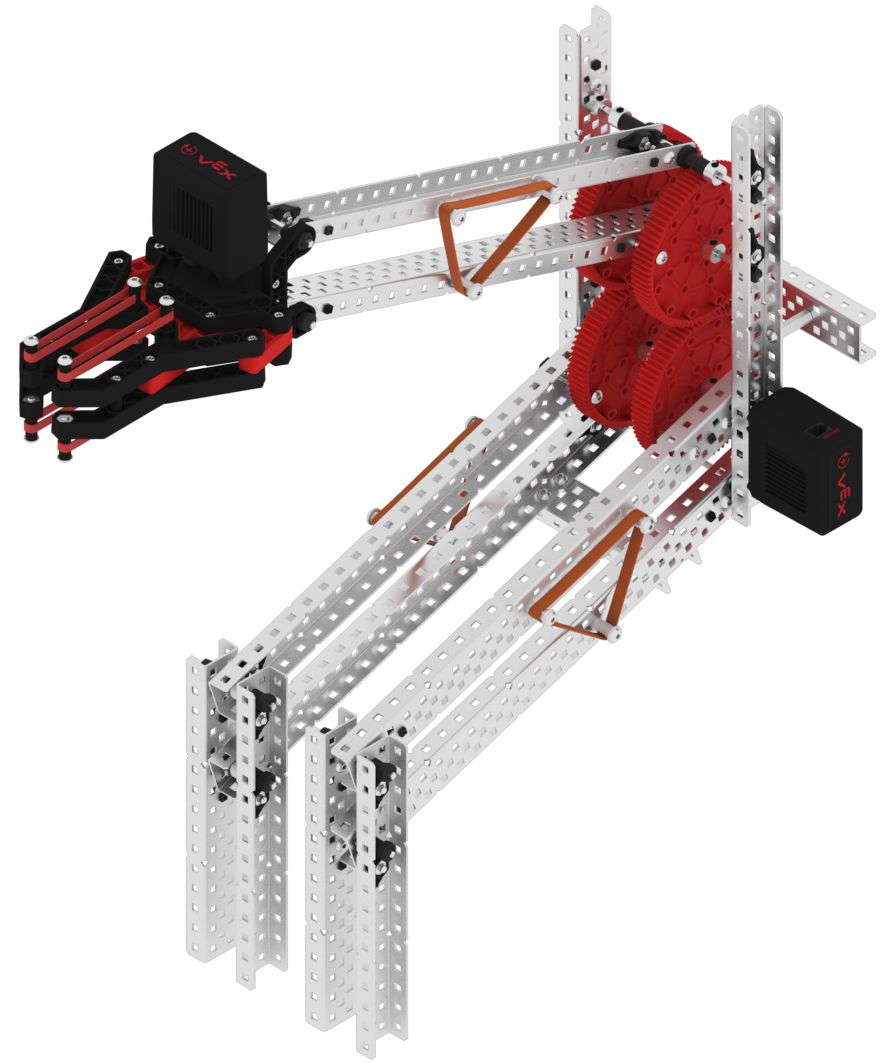
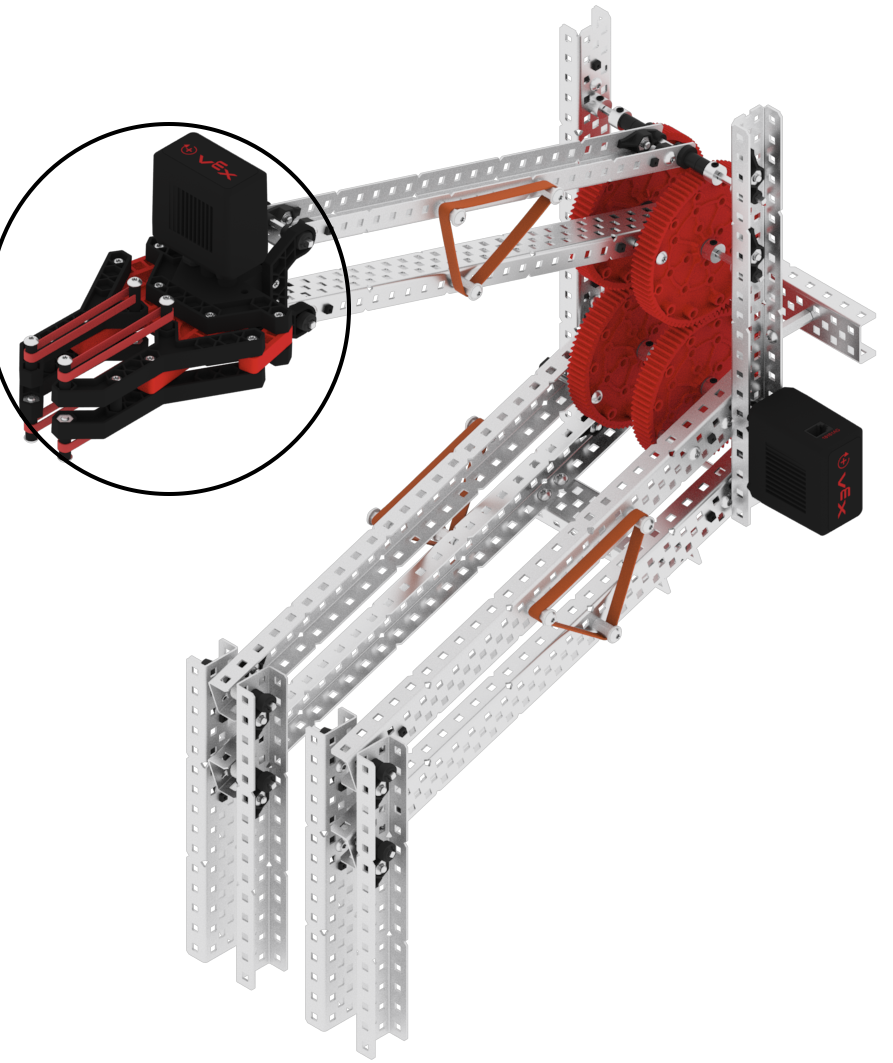
Worked on Endgame

diff --git a/19 - Conquering Endgame (Part 1).md b/19 - Conquering Endgame (Part 1).md
@@ -83,6 +83,16 @@ For the design of our Double Reverse Four Bar lift, we decided to refer to the v
 
 ![](images/VexDR4B.png)
 
-First, we definitely don't want to use a Vex clamp like displayed in the image. This is because it would be unlikely to hold the weight of our robot well, and we also would prefer a passive clamp because we don't want to use a motor where one isn't necessary. This task is well suited for a passive mechanism because it only has to happen once during a match, so resetting it outside of a match is viable. 
+First, we definitely don't want to use a Vex clamp like displayed in the image (circled in black). This is because it would be unlikely to hold the weight of our robot well, and we also would prefer a passive clamp because we don't want to use a motor where one isn't necessary. This task is well suited for a passive mechanism because it only has to happen once during a match, so resetting it outside of a match is viable. Here's a picture of a clamp that we found online, that we are considering iterating off of for creating ours. There are a few issues that I can identify looking at the image of the clamp. 
+
+
 
 ![](images/PassiveClamp.png)
+
+There are a few issues that I can identify looking at the image of the clamp. First, the band's path seems very prone to obstructions, and like it might not provide enough tension. Second, the whole thing looks crooked, which is a sign that it might not work consistently throughout a competition. Lastly, the way that this clamp locks is questionable. It takes a lot of power to just push a c Chanel past a 1x2 plate, and I just don't see how that's going to work without the plate just moving and being unable to keep the C Chanel locked.  
+
+Here's a picture with the problematic locking mechanism I'm taking about circled. 
+
+![](images/PassiveClampMarkedUp.png)
+
+The only way to find out if these things are going to be problems is to actually build it and prototype though. 
